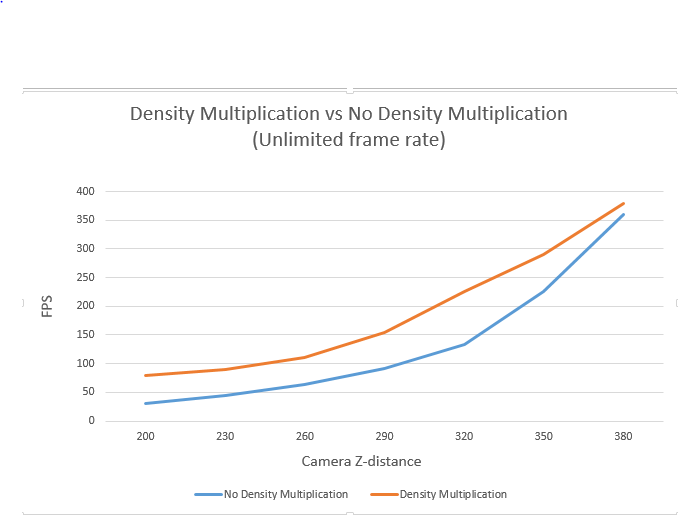
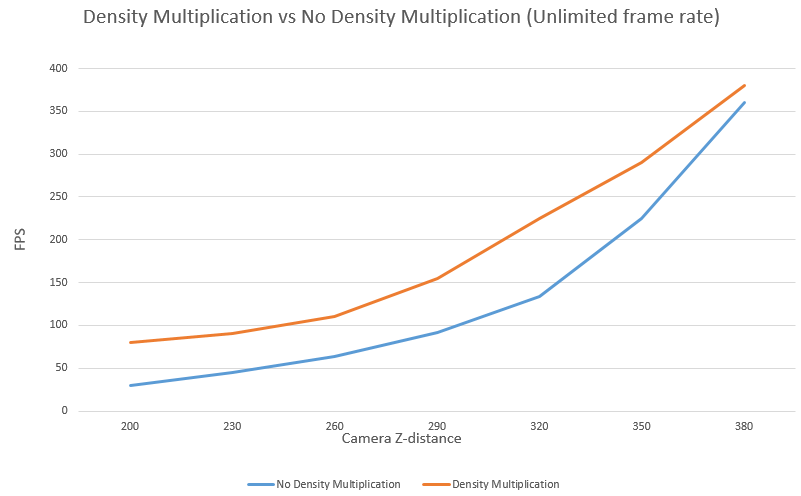
Results Upload

diff --git a/src/main.cpp b/src/main.cpp
@@ -895,7 +895,7 @@ int main() {
 		scene->UpdateWindInfo(glm::vec4(WindDirection[0],  WindDirection[1], WindDirection[2], 1.0f), glm::vec4(windForce, windSpeed, waveInterval, 1.0f));
 		scene->UpdateDayNightInfo(Daylength, DayNightActivation);
 		renderer->Frame();
-		/*count++;
+		count++;
 		if (count == 100) {
 			int total_time = GetTickCount() - time_start;
 			float distance = glm::length(glm::vec3(128,0,128)-camera->GetEyePos());
@@ -905,7 +905,7 @@ int main() {
 			printf("fps: %f\n", 100000.0 / float(total_time));
 			count = 0;
 			time_start = GetTickCount();
-		}*/
+		}
 		gui->g_FrameIndex = (gui->g_FrameIndex + 1) % IMGUI_VK_QUEUED_FRAMES;
 	}
 
